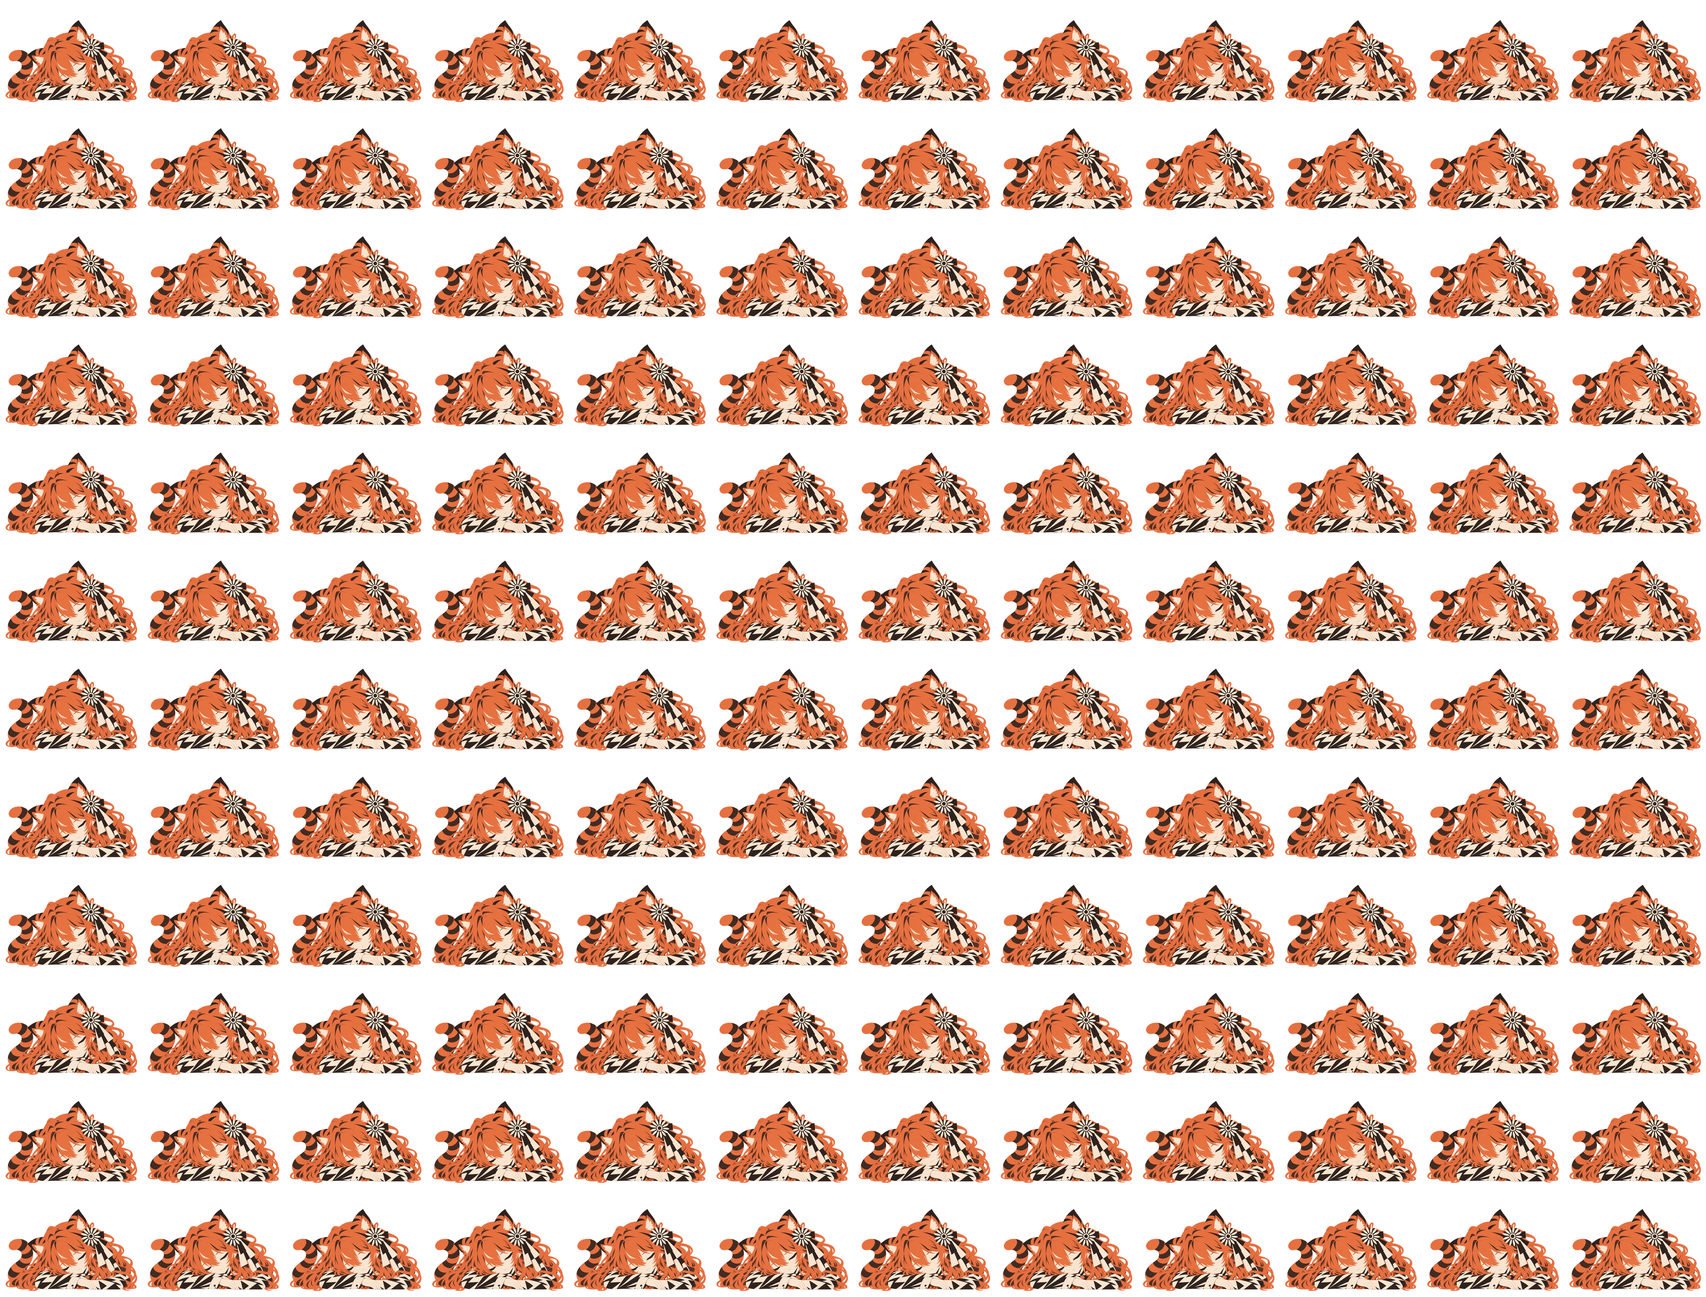
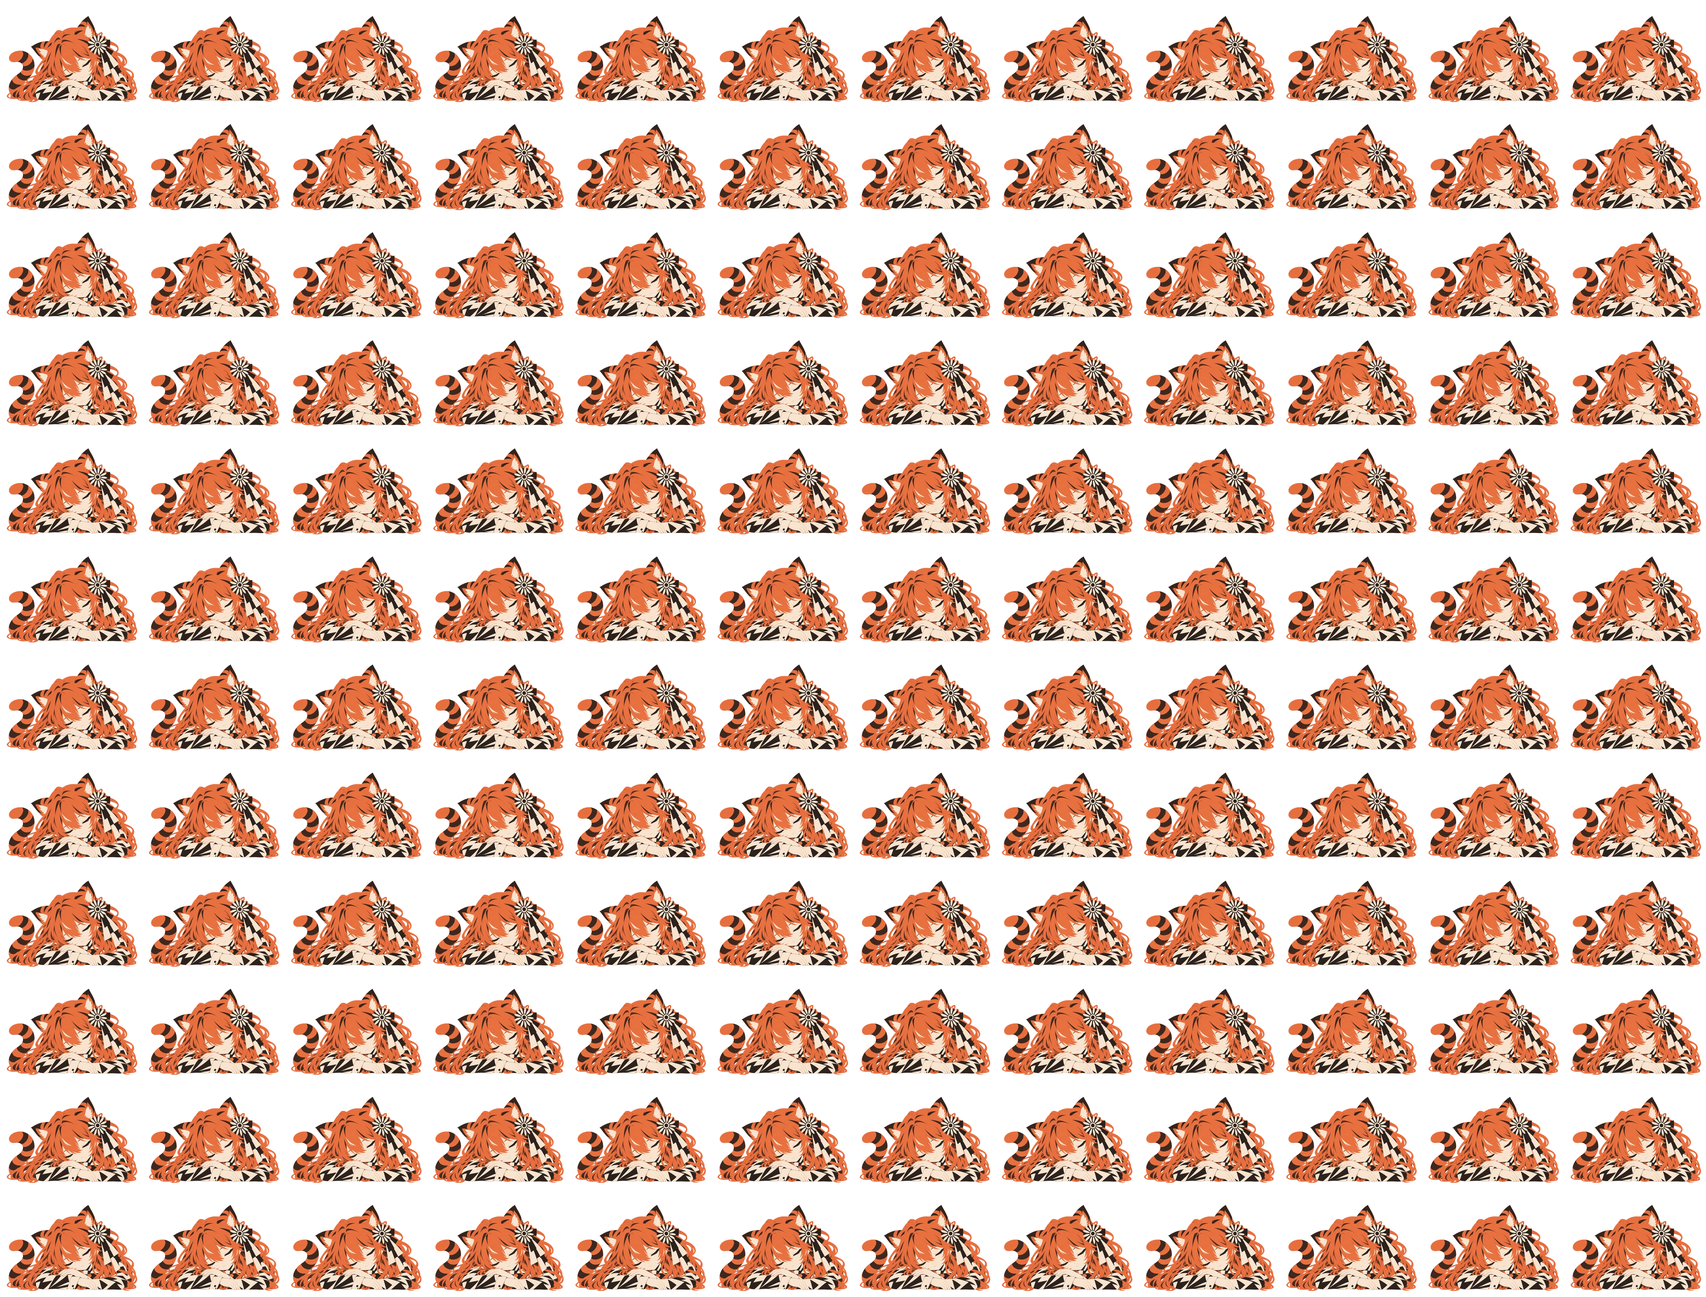
替换为用户最新上传的睡姿并重导动画

Changed region(s): [[0.0, 0.0, 1.0, 0.9954]]

diff --git a/design/luna-2d/poses/sleep/sleep.js b/design/luna-2d/poses/sleep/sleep.js
@@ -29,17 +29,17 @@
       vUV = p / vec2(1448.0,1086.0);
       float breath = 0.5 - 0.5 * cos(uTime * 6.28318530718 / 6.0);
       // Only the back/hair silhouette and crown breathe; face, cheek contact and arms stay fixed.
-      float back = smoothstep(940.0,1140.0,p.x) * smoothstep(400.0,600.0,p.y)
+      float back = smoothstep(1030.0,1180.0,p.x) * smoothstep(400.0,600.0,p.y)
         * (1.0-smoothstep(750.0,825.0,p.y));
       float crown = smoothstep(350.0,520.0,p.x) * (1.0-smoothstep(940.0,1100.0,p.x))
-        * smoothstep(230.0,320.0,p.y) * (1.0-smoothstep(440.0,540.0,p.y));
+        * smoothstep(230.0,320.0,p.y) * (1.0-smoothstep(410.0,500.0,p.y));
       p += vec2(2.8,-5.2) * back * breath + vec2(0.0,-1.7) * crown * breath;
       // One quiet ear flick per six seconds, rooted above the face.
       float q = clamp((uTime-4.35)/0.42,0.0,1.0);
       float angle = 0.025 * sin(q*6.28318530718) * pow(sin(q*3.14159265),2.0);
-      float ear = smoothstep(650.0,705.0,aPosition.x) * (1.0-smoothstep(870.0,920.0,aPosition.x))
-        * (1.0-smoothstep(330.0,425.0,aPosition.y));
-      vec2 d = aPosition-vec2(810.0,425.0);
+      float ear = smoothstep(760.0,815.0,aPosition.x) * (1.0-smoothstep(980.0,1030.0,aPosition.x))
+        * (1.0-smoothstep(290.0,380.0,aPosition.y));
+      vec2 d = aPosition-vec2(920.0,380.0);
       p += (vec2(cos(angle)*d.x-sin(angle)*d.y,sin(angle)*d.x+cos(angle)*d.y)-d)*ear;
       // Same scale as idle; lowered source baseline is compensated by +32 pixels of top padding.
       vec2 uv = (p+vec2(52.0,80.0))/vec2(1552.0,1182.0);

diff --git a/sleep-smoke.js b/sleep-smoke.js
@@ -66,7 +66,7 @@ async function check(live, output) {
     live.smokeIdleNow += 1000;
     idle.check();
     await expect(true);
-    await click(212, 76); // The sleeping ear occupies a different place than idle.
+    await click(244, 65); // The current sleeping ear occupies a different place than idle.
     live.smokeIdleNow += 300000;
     idle.check();
     await expect(true);

diff --git a/design/luna-2d/poses/sleep/verify.py b/design/luna-2d/poses/sleep/verify.py
@@ -1,5 +1,6 @@
 """Validate deterministic sleep frames; reads generated artwork only, no application data."""
 import json
+import hashlib
 from pathlib import Path
 from PIL import Image, ImageChops
 
@@ -15,7 +16,7 @@ for file in files:
     for edge in [(0, 0, 768, 1), (0, 583, 768, 584), (0, 0, 1, 584), (767, 0, 768, 584)]:
         assert alpha.crop(edge).getbbox() is None, (file.name, 'clipped')
     # Runtime stage coordinates doubled: face/contact, both forearms, visible hand.
-    for box in [(160, 190, 230, 225), (100, 230, 330, 270)]:
+    for box in [(150, 145, 258, 221), (154, 213, 235, 240), (100, 230, 330, 270)]:
         bounds = tuple(value * 2 for value in box)
         channels = ImageChops.difference(first.crop(bounds), image.crop(bounds)).split()
         assert channels[3].getbbox() is None, (file.name, 'fixed alpha')
@@ -24,13 +25,14 @@ for file in files:
         maximum = max(maximum, delta)
 
 motion = {}
-for name, box in {'breathing': (270, 150, 360, 220), 'ear': (180, 50, 240, 110)}.items():
+for name, box in {'breathing': (280, 150, 360, 220), 'ear': (205, 42, 265, 110)}.items():
     bounds = tuple(value * 2 for value in box)
     motion[name] = any(max(c.getextrema()[1] for c in ImageChops.difference(
         first.crop(bounds), Image.open(file).convert('RGBA').crop(bounds)).split()) > 2 for file in files[::3])
     assert motion[name], name
 
 report = {'frames': len(files), 'fps': 24, 'durationSeconds': 6, 'size': first.size,
+          'sourceSha256': hashlib.sha256((root / 'sleep-approved.png').read_bytes()).hexdigest(),
           'fixedFaceCheekArms': True, 'fixedRegionMaximumRgbDelta': maximum,
           'transparentBorder': True, 'motion': motion}
 (root / 'verification.json').write_text(json.dumps(report, indent=2) + '\n', encoding='utf-8')

diff --git a/HANDOFF.md b/HANDOFF.md
@@ -2,7 +2,7 @@
 
 只记录当前状态；历史看 git log 或 [历史归档](docs/HANDOFF-ARCHIVE.md)。需求以最新用户要求和实际代码为准。
 
-## 当前状态（2026-10-23）
+## 当前状态（2026-10-26）
 
 - 版本 1.0.0，当前开发分支 `feature-claude`；本次交接对应该分支最新提交，提交号以 `git log -1` 为准。默认形象已从 Q 版站姿改为用户确认的 **2D 单手托腮克劳德**，不再使用 3D 手办方向。原图与风格参考保存在 `design/luna-2d/`；旧素材只作历史保留。
 - 应用使用 `assets/luna-2d/idle.webp`：384×292/帧，12 列，192 帧，24 FPS，8 秒顺序循环，约 5.3 MB。眨眼、耳朵轻抖、缓慢摆尾；手、嘴和托腮姿势固定。默认显示 256×194⅔ DIP，保留透明边缘和原比例，耳朵与尾巴完整，窗口默认 280×640；放大时窗口宽度随人物增大。
@@ -28,7 +28,7 @@
 - 角色对话已全面润色为温柔、慵懒、松弛且略带大小姐气质：日常问候/欢迎回来/休息关心/拖动/闲聊，以及收藏、截图录屏、完成提醒和设置反馈的中英文同步。删去“冲呀”“真棒”、委屈式等待与括号舞台说明，新增 3 条闲聊候选，静默微笑保留。主动间隔/每日上限、提醒优先、错误与部分失败反馈均不变，用户的名字、称呼和提醒内容不改写。`docs/CLAUDE-DIALOGUE.md` 列出 68 项场景含英文与占位符；修改台词时同步此清单。
 
 - GPT 娘仅保留未确认的预览：`design/gpt-2d/preview-v3.png` 为少女版、银白/淡紫龙族特征、半眯眼狡黠微笑，画风向克劳德的大色块平涂靠拢；用户两张参考图、完整提示词与继续说明保存在同目录。原图 1448×1086 RGBA，alpha 0–255，内置 image_gen 生成后原样保存。用户最新要求先提交推送，新形象以后再说；不继续生成、不接入、不制作动画或切换功能，当前应用仍使用克劳德。
-- 克劳德睡姿已由用户选定本次两张调整图中的第二张，保存为 `design/luna-2d/poses/sleep/sleep-approved.png`：头进一步放低、向画面左侧倒，脸颊直接贴在左侧胳膊袖面上，闭眼安静睡着。内置 image_gen 以前版 v1 为编辑输入，实际提示词为同目录 `prompt-v2.txt`；v1 保留参考。已接入 `assets/luna-2d/sleep.webp`（384×292/帧、144 帧、24 FPS、6 秒循环，约 3.45 MiB），后背/头发轻呼吸、耳尖偶尔微抖；脸、贴臂接触点与前臂逐帧固定，alpha 与留白保留。`sleep.js`/`export.cjs` 可重建，`verify.py` 验证脸颊/手臂 RGB 和 alpha 完全固定、边缘透明及局部动作。睡眠期间跳过默认耳尾变形，非透明处点击只唤醒；缺图回退半速待机，减少动态效果停首帧，迟到加载不复活停止的角色。
[1 lines of base64/hex data omitted]
 
 - 睡眠策略改为本机时间 **22:00–次日 07:00、12:30–14:00** 到点入睡，时段内启动同样入睡；点击唤醒，之后仅在时段内、距唤醒和系统闲置均满 5 分钟时再睡。普通键鼠不唤醒，结束时段自动醒。锁屏/休眠恢复只检查时段；到点提醒和拖入收藏保留唤醒，未完成提醒阻止再睡。`idle.js` 是权威状态，受限 `pet-wake` IPC 同步点击/提醒唤醒，中英帮助已更新。
 
@@ -37,11 +37,9 @@
 
 ## 本轮验证与分发
 
-- 本轮基于 `feature-claude` 的 `083f4c5`，接入局部露齿笑及四种场景。原始素材 1448×1086 RGBA，alpha 0–255；未重写默认待机/睡眠图集。
-- `npm test`：142/142 通过；`npm run format` 已通过（本机用 `npm exec --yes --package=prettier@3.9.9 -- npm run format`）。
-- 源码 `--smoke-test --happy-test` 已通过：三处贴片实际变化像素 909/878/322，身体与 alpha 不变、无全身跳、尾巴动作继续、连点时长受限、四种场景、提醒优先、减少动态效果、缺图回退及迟到加载。旧浅笑专项已同步完成提醒的预期。
-- 本轮源码完整 `--smoke-test` 退出 0，含开心笑/睡眠专项、截图录屏、输入焦点、收藏夹、提醒、缩放、精简模式、贴边、托盘恢复与销毁后的迟到事件。旧浅笑 `--smoke-test --smile-test` 同步通过。
-- `node build-installer.cjs` 已重建便携版与安装包，便携版 `--smoke-test --happy-test` 通过；隔离安装/229 个文件一致性/卸载检查通过，不访问真实用户数据。真实安装目录未升级，完整安装版桌面/重装保留数据专项本轮未运行。
+- 本轮基于 `feature-claude` 的 `02849b4`，仅更换睡姿原图、重导运行图集、适配导出活动范围与睡眠专项耳朵点击坐标；不改睡眠/互动逻辑。原 PNG 与用户上传字节一致，导出 t=0/6 PNG 一致；144 帧透明边框、固定脸/双手/前臂 RGB/alpha、实际呼吸和耳抖验证通过，报告含原图 SHA256。
+- `npm test`：142/142 通过。源码 `--smoke-test --sleep-test` 通过：新睡姿播放、身体/耳/尾点击唤醒、180% 缩放、闲置再睡、时段边界、跨午夜、提醒优先、减少动态效果、缺图回退与迟到加载，使用独立临时用户资料和注入时钟。
+- `npm run format` 已通过；`node build-installer.cjs` 已重建便携版和安装包。便携版 `--smoke-test --sleep-test` 通过，隔离安装/229 文件一致性/卸载通过；新版便携程序已启动。上轮 `02849b4` 的完整桌面回归、开心笑与浅笑专项均通过；本轮未重跑与素材替换无关的完整桌面流程、真实多屏/中文输入法及完整安装重装专项。
 - 鼠标捕获跨出原生窗口、多屏混合 DPI 与运行中切换显示器仍需人工体验；真实全局快捷键在其他软件前台触发仍未人工全面验收。
 - 已关闭本项目旧便携进程并启动本轮新版，使用入口 `claude maid-Windows/claude maid.exe` 启动。原 `claudex-Windows` 为旧构建输出，不作为新版入口；未递归删除旧包。多屏混合 DPI、长期录屏与第三方客户端拖放仍未全面验收。
 

diff --git a/design/luna-2d/poses/sleep/README.md b/design/luna-2d/poses/sleep/README.md
@@ -1,18 +1,18 @@
 # 克劳德睡眠动画
 
-`sleep-approved.png` 是用户从本次两张调整图中选择的第二张：头更低、脸颊直接贴在画面左侧的胳膊袖面上，作为确认的睡姿原图。已制作局部轻呼吸并接入睡眠状态；清醒时仍用原默认姿势。`sleep-preview-v1.png` 仅保留为前版参考。
+`sleep-approved.png` 是用户于 2026-10-26 直接提供并要求替换的透明睡姿：双臂交叠，一只手搭在前臂上，头向画面左侧倾靠，闭眼安静睡着。已重新制作局部轻呼吸并接入睡眠状态；清醒时仍用原默认姿势。此前的低头贴袖面确认稿通过 Git 历史保留，`sleep-preview-v1.png` 仅作早期参考。
 
-- 造型：双臂交叠枕睡，头下沉并向画面左侧倾，脸颊直接靠胳膊，不以手掌托头，闭眼安静休息；保留橙色长卷发、虎耳虎尾、黑白花饰及几何服装，2D 平涂与柔和明暗。
+- 造型：双臂交叠枕睡，头向画面左侧倾，一只手自然搭在前臂上，闭眼安静休息；保留橙色长卷发、虎耳虎尾、黑白花饰及几何服装，2D 平涂与柔和明暗。
 - 参考：`../../default-pose.png` 是身份、脸型、比例与服装主参考；`../../style-reference.png` 是画风辅参考。
-- 使用内置 image_gen 生成，要求透明背景，保留工具输出原始 PNG/alpha，不做二次抠图或重编码。确认稿以 `sleep-preview-v1.png` 为编辑输入，完整实际提示词是 `prompt-v2.txt`；前版提示词是 `prompt-v1.txt`。
[2 lines of base64/hex data omitted]
+- 当前原图来自用户上传，原样保存，保留原 PNG/alpha，不重新生成、抠图或重编码。`prompt-v1.txt`、`prompt-v2.txt` 仅记录此前版本的 image_gen 提示词，不作为当前图的来源。
+- 文件检查：1448×1086 RGBA、alpha 0–255、四角全透明，与用户提供的文件逐字节一致。
[1 lines of base64/hex data omitted]
 
 ## 动画与接入
 
-- `sleep.js` / `index.html`：从确认原图确定性渲染，6 秒、24 FPS、144 帧。后背/头发轻呼吸，偶尔耳尖微抖；脸、脸颊贴臂接触点、两侧前臂与手保持固定，不整体升降或缩放。
+- `sleep.js` / `index.html`：从确认原图确定性渲染，6 秒、24 FPS、144 帧。后背/头发轻呼吸，偶尔耳尖微抖；脸、两只手与两侧前臂保持固定，不整体升降或缩放。
 - 映射为 `(x+52)/1552`、`(y+80)/1182`，与默认待机同一比例、下方支撑线；透明留白不裁掉。原始 PNG 与 alpha 不变。
-- 运行图集 `assets/luna-2d/sleep.webp`，384×292/帧、12 列、4608×3504，约 3.45 MiB；通过现有图集播放器播放。减少动态效果时固定第一帧；可选素材失败回退半速待机。
+- 运行图集 `assets/luna-2d/sleep.webp`，384×292/帧、12 列、4608×3504，约 3.59 MiB；通过现有图集播放器播放。耳根与背部/发顶活动区域按新图重新定位，脸和两只手不随呼吸或耳抖移动。减少动态效果时固定第一帧；可选素材失败回退半速待机。
 - `idle.js` 按本机时间每天 22:00–次日 07:00、12:30–14:00 到点入睡；点击唤醒后，时段内闲置 5 分钟再睡。普通键鼠不唤醒，结束时段自动醒来。到点提醒/拖入收藏保留唤醒；待处理提醒优先。
 - 睡姿不沿用清醒姿势的耳尾变形或身体命中地图；当前帧 alpha 内点击只唤醒，透明处穿透。
 

diff --git a/ROADMAP.md b/ROADMAP.md
@@ -17,7 +17,7 @@
 - **微笑**：用户已确认 `design/luna-2d/expressions/smile-preview-v1.png`，接入收藏成功、欢迎回来、轻点脑袋和偶尔主动陪伴，完成提醒改用下述露齿笑。局部嘴部叠加，约 2.6 秒淡入淡出；原待机/耳尾继续，提醒到点优先，连点不延长；不增加主动频率，部分互动只笑不出气泡。
 - **开心露齿笑**：活泼可爱、略狡黠的“嘿嘿笑”，仅变化眼睛和嘴部，保留脸型/托腮姿势。用于完成提醒、离开一阵返回后的首次点击、偶尔摸头、部分每日问候；约 2 秒恢复，不增加台词和主动发言。原浅笑保留给收藏等高频操作。已接入确认方向的 v4 原图局部贴片；返回首击与摸头/问候受陪伴开关控制，完成提醒保持功能反馈。
 - **GPT 娘预览（暂停）**：少女版、银白发/淡紫眼、龙角/精灵耳/小翼/鳞尾；表情参考用户首张截图的狡黠半眯眼，画风向当前克劳德的清晰大色块与平涂靠拢。最新 `design/gpt-2d/preview-v3.png` 仅供下次审阅，未作为运行素材或确认稿；参考图与提示词随仓库保存。
-- **角色**：2D 托腮待机动画已接入，包含眨眼、动耳朵和摆尾；换装已移除。确认睡姿 `design/luna-2d/poses/sleep/sleep-approved.png` 已接入 6 秒轻呼吸循环，头放低贴在画面左侧胳膊上，脸颊和手臂保持固定。待补姿势动画：工作（截图/录屏、CPU 高或待机时偶尔触发）、开心、害羞。
+- **角色**：2D 托腮待机动画已接入，包含眨眼、动耳朵和摆尾；换装已移除。睡姿 `design/luna-2d/poses/sleep/sleep-approved.png` 已换为用户 2026-10-26 新上传的透明图，双臂交叠、一只手搭在前臂上；已重导 6 秒轻呼吸循环，脸、双手和手臂保持固定。待补姿势动画：工作（截图/录屏、CPU 高或待机时偶尔触发）、开心、害羞。
 - **睡眠**：按本机时间每天 22:00–次日 07:00、12:30–14:00 到点入睡（在时段内启动同样入睡）；点击人物可唤醒，之后仅在睡眠时段内、系统闲置满 5 分钟且距唤醒满 5 分钟时再睡。普通键鼠操作不唤醒；结束时段自动醒来。提醒和拖入收藏保留唤醒，未完成的到点提醒阻止再次入睡。锁屏/恢复只重新检查时段，不在其他时间强制睡觉。
 - **点击部位**：默认半身图开放可见的头、胸、手臂、左右耳和尾巴；托腮手优先，耳朵与尾巴单独命中。点耳朵快速抖两下并回弹（第二下较轻），点尾巴以独立图层整体轻甩后小幅回摆，上方弯钩不拉伸、头发前景不跟动；待机慢摆尾同步使用独立尾巴层，不做水纹式波动；叠加在当前待机画面，不跳换姿势。透明处和未显示的下半身不触发，连点不累计生气；已移除缺失姿势时的全身小跳兜底，下方手臂点击也不再跳动。
 - **连续点击**：已移除生气升级、消失、恢复台词与操作锁定，不保留点击计数或开关。

diff --git a/CHARACTER-ASSETS.md b/CHARACTER-ASSETS.md
@@ -6,7 +6,7 @@
 
 - 每个姿势是一张透明 WebP 图集，每帧 **384×292** 像素，每行 12 帧，从左到右、从上到下排列。
 - 默认 `idle` 为 `assets/luna-2d/idle.webp`，192 帧，24 FPS，顺序循环 8 秒；图集 4608×4672，约 5.2 MiB。
-- 睡眠 `sleep` 为 `assets/luna-2d/sleep.webp`，144 帧、24 FPS、6 秒循环，图集 4608×3504。以确认的 `design/luna-2d/poses/sleep/sleep-approved.png` 做局部轻呼吸与偶尔耳抖，脸颊贴臂和手臂不动；源图映射 `(x+52)/1552`、`(y+80)/1182`，与待机比例和支撑线对齐。
+- 睡眠 `sleep` 为 `assets/luna-2d/sleep.webp`，144 帧、24 FPS、6 秒循环，图集 4608×3504。以用户 2026-10-26 新上传的 `design/luna-2d/poses/sleep/sleep-approved.png` 做局部轻呼吸与偶尔耳抖（双臂交叠、一只手搭在前臂上），耳根/背部/发顶活动区已适配新图，脸、双手和前臂不动；源图映射 `(x+52)/1552`、`(y+80)/1182`，与待机比例和支撑线对齐。
 - `character-assets.js` 登记路径、帧数、列数、帧率和播放方式；`character.js` 在画布按帧播放。缺少反应姿势时保持待机，不替代为全身小跳；睡姿加载失败才回退半速待机，减少动态效果时停在第一帧。睡眠跳过默认耳尾变形与解剖区域，当前 alpha 内点击只唤醒。
 - 默认显示为 256×194⅔ DIP，完整保留横向比例和透明留白，窗口默认 280×640。滚轮缩放为 60%–180%，窗口宽度和气泡位置随人物适配，面板控件保持正常大小；帧图集本身不缩放重写。
 - 当前是半身图：`body-shortcuts.js` 用多边形判定头部、胸部和两侧手臂，托腮的手优先。点击先读取当前帧 alpha，左右耳和尾巴优先于头部等普通区域，透明处及未露出的腿/脚/禁区不触发。`appendage-motion.js` 在当前待机帧上叠加局部网格变形：耳朵约 0.52 秒的快速两次轻抖与回弹，尾巴约 1.32 秒的整体轻甩和小幅回摆。按尾巴/头发之间的缝隙建立遮罩，将尾巴单独上传为纹理、头发保留前景遮挡；上方弯钩等距旋转，仅下端过渡，不横向拉伸。待机源动画复用同一尾巴遮罩并已重导图集，不再让慢摆尾带动头发。不重置待机时钟，不整体小跳；仅重绘对应矩形，面部与双手像素保持不变。命中点按变形反求源坐标，缩放后仍使用同一坐标系。减少动态效果时跳过局部动作；WebGL 不可用或上下文丢失时保持普通待机可用。后续姿势若改变构图，需要配置匹配的命中区域。
